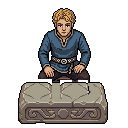
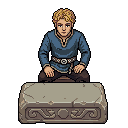
Alba Neagra: paharele decupate fix pe conturul lor negru
Razvan: "paharele sunt decupate prost, vreau sa fie decupate fix cu stroke-ul
negru pe care il au deja. Copiaza paharul din stanga si da copy-paste in
celelalte locuri."

DECUPAJUL (tool_alba_assets.gd)
Vechea idee — "ce e aproape alb e pahar", plus umplere de gauri — era gresita
din start. Paharul e desenat cu un contur INCHIS, deci silueta se ia geometric:
pornim dintr-un pixel aproape alb, umplem tot ce NU e contur (ne oprim singuri
in linia neagra, oricat de inchise ar fi umbrele dinauntru), apoi adaugam
conturul: pixelii inchisi lipiti de interior.

- Pragul de contur trebuie sa fie 0.35, nu 0.20: conturul nu e negru uniform,
  pe stanga paharului e un gri de ~0.25, si cu 0.20 umplerea se scurgea pe toata
  masa. Tablia e >= 0.5, deci 0.35 desparte curat.
- Conturul se ia cu UN pixel in jur, nu urmarind linia: sus e lipit de muchia
  neagra a mesei, care traverseaza toata poza. Crestaturile de un pixel (unde
  conturul e desenat pe doi pixeli) se astupa cu o regula geometrica: pixel
  inchis inconjurat pe 3 din 4 laturi de masca e tot contur. Cu 2 laturi ar
  prinde din nou masa.
- La stersul paharelor de pe masa, toate trei se marcheaza intai ca "sursa
  interzisa": altfel unul se peticeste cu pixeli din vecinul lui si raman
  cioburi negre pe piatra. Si se peticeste pe latimea mastii pe randul ala, nu
  pe toata caseta — sus paharul e ingust si are mainile omului langa el.

MENIUL (alba_menu.gd)
- Constante noi din unealta: SLOT_X [45, 64, 83], CUP_W 14, TALPA 96.
[…]

diff --git a/README.md b/README.md
@@ -90,7 +90,7 @@ All scenes (`.tscn`) and scripts (`.gd`) live in the project root.
   - **The floors on the stats are load-bearing, not cosmetic.** Halving without them leaves you at **0 projectiles** (you stop shooting) or **0 max HP** (you die on the spot) — that ends the run in one spin, which is not "you lose half a stat". Minimums: projectiles 1, max HP 10 (and `hp` moves by the same delta but never below 1), damage 1, damage taken 1 (or contact damage becomes harmless), speed 60. Attack Speed goes through **`upgrade_fire_rate()`** — writing `fire_interval` directly leaves the fire `Timer` on its old value and nothing changes. **Stats sitting at 0 are not listed at all**: doubling 0 is still 0, so betting one would be free.
   - **Three wins in a row and you are banned for the run** *(2026-08-11)* — `CASTIGURI_BAN = 3` in `casino.gd`. The third win is paid out first, the result stays up for `BAN_INTARZIERE` (1.7 s), then a fourth page takes over: *"You've been banned for cheating"*. `_arata_pagina()` rewrites every requested page to `"ban"` from then on (one choke point, so `open()`, ESC and "Back" cannot go round it), `e_banat()` tells the cabinet, and `egt.gd` keeps `poate_invoca()` at `true` so the machine still shows *why* it is dead instead of silently becoming scenery. The streak lives on the single `Casino` node, i.e. it is **per run** — leaving the menu or walking to another cabinet does not reset it; a loss does.
 - **`albas.gd` + `alba.tscn` / `alba.gd` / `alba_menu.gd`** *(2026-08-11)* — **ALBA NEAGRA**, the shell-game man (`harta/Alba Neagra/Alba Neagra.png`), spawned like the EGT cabinets (own `SEED_SALT`, `alba_chance = 2%`, kept `min_dist_egt = 260` from a cabinet so the two gambling spots do not sit on top of each other) and following the same **74px rule** for Y-sorting. He **breathes**: the sprite is stretched 1.8% vertically every 2.3 s with the base pinned by pulling `offset.y` down `foot × (k−1)/k` in parallel — a `Sprite2D` scales from its centre, so without that the table would sink into the grass on every inhale. Press E for the game: the ball goes under a cup, the cups shuffle (more swaps and faster each round — round 1 is 4 × 0.42 s, round 6 is 14 × 0.17 s), you pick a **position**, not a cup, because the click zones are fixed over the three spots on the table. **The prize climbs with the streak** (2 = Common → 6 = Legendary, which ends the game), a wrong guess pays nothing and costs **+10% difficulty**, and **each man plays once** — consumed at the *first round*, not when the menu opens, and remembered per position by the generator like the chests. ⚠ The shuffle is **built in one go but played over time**, so the tween cannot read `_slot` for the fifth swap's positions: a simulated copy walks forward as the chain is built, and `_schimba` replays the same moves on the real one.
-  - **The menu was rebuilt from scratch on 2026-08-12** (Răzvan: *"make it look like a big studio made it — premium, wow"*). It now shows **the man's own 128×128 world sprite, zoomed ×4**, instead of a separate table picture: `tool_alba_assets.gd` cuts `scene.png` (man + table, cups erased and patched from the pixels beside them) and `cup.png` (one cup, 13×16) straight out of `Alba Neagra.png`, and prints the geometry constants for `alba_menu.gd`. The layout is three columns on a fixed **1152×648 plan** (`PLAN` + `_pune`, so it is identical at every resolution): round / hint / risk / prize on the left, the framed **stage** in the middle (warm spotlight, per-cup shadows that shrink as a cup lifts, click zones over the three spots), the **prize ladder** and the buttons on the right — each frame a different cell of `Border EGT.png`. ⚠ Two traps that cost real time: the sheet's cells are **not hollow**, so any frame drawn *over* content needs `draw_center = false` (the first build rendered an empty stage); and an **autowrap label must never be sized through `size`** — it keeps the minimum height it computed while its width was still 0 (439 px for a two-line string) and its text lands in the middle of the panel, so those labels live inside an anchored `Control` (`_eticheta_rupta`).
+  - **The menu was rebuilt from scratch on 2026-08-12** (Răzvan: *"make it look like a big studio made it — premium, wow"*). It now shows **the man's own 128×128 world sprite, zoomed ×4**, instead of a separate table picture: `tool_alba_assets.gd` cuts `scene.png` (man + table, cups erased and patched from the pixels beside them) and `cup.png` (one cup, 14×16) straight out of `Alba Neagra.png`, and prints the geometry constants for `alba_menu.gd`. **The same cup is drawn on all three spots** — Răzvan asked for the left one copy-pasted. ⚠ The cup is cut **geometrically, not by colour**: its shading is exactly as bright as the table top, so the tool floods everything that is *not* outline, starting from an almost-white pixel, then adds the dark pixels touching that fill — the cup's own black stroke, one pixel out, never following the line (up top the stroke merges with the table's edge, which crosses the whole picture). The outline threshold must be **0.35, not 0.20**: it is not uniformly black — on the left of the cup it is a ~0.25 grey, and a tighter threshold lets the fill leak across the entire table. When erasing the cups, all three must be marked as forbidden patch sources first, or one cup gets repaired with pixels from its neighbour and black shards stay on the stone. The layout is three columns on a fixed **1152×648 plan** (`PLAN` + `_pune`, so it is identical at every resolution): round / hint / risk / prize on the left, the framed **stage** in the middle (warm spotlight, per-cup shadows that shrink as a cup lifts, click zones over the three spots), the **prize ladder** and the buttons on the right — each frame a different cell of `Border EGT.png`. ⚠ Two traps that cost real time: the sheet's cells are **not hollow**, so any frame drawn *over* content needs `draw_center = false` (the first build rendered an empty stage); and an **autowrap label must never be sized through `size`** — it keeps the minimum height it computed while its width was still 0 (439 px for a two-line string) and its text lands in the middle of the panel, so those labels live inside an anchored `Control` (`_eticheta_rupta`).
 - **`garda.tscn`** (`CharacterBody2D` + `garda.gd`) — the **"Garda" boss**, spawned *only* by the statue's Summon. Slower and much tankier than a normal enemy, walks toward the player using **8-directional** animations, and **throws lightning balls** from range on a cooldown. Static `garda_0.png` shows while it's rising; the walk animation kicks in once it moves. **(2026-07-19) Special attack:** every **10s** it fires the normal attack **3 times in a fast burst** (`special_interval` / `special_shots` / `special_gap`, ~0.12s apart). The burst is driven by a counter in `_physics_process`, **not `await`** — a coroutine would resume on a freed node if the boss dies mid-burst. It re-reads the player each shot, so the burst tracks you. **(2026-07-22)** What it throws is no longer a lightning ball but a **spinning police baton** — same script and scene, new frames (see below).
 - **`lightning.tscn`** (`Area2D` + `lightning.gd`) — the boss's ranged projectile (still called *lightning* in code): since 2026-07-22 a **spinning police baton** with a **circle hitbox**, flies toward the player, and only damages group `"player"` (`take_damage`). **16 frames × 22.5° = one full turn**, played at 24 fps (a turn every 0.67s), each frame carrying a **2px violet outline**. The sprite is scaled to **0.6** so the baton reads about the size of the old ball and roughly matches the 30px hitbox radius.
 - **Boss art** lives in `boss/` (walk GIFs split into `walk_<dir>_<i>.png` frames + the lightning-burst frames); the alert symbol in `Upgrades/symbol_alert_002_large_red/`. New GIFs are split to PNG with PowerShell + `System.Drawing`; **open the project in Godot once to import new PNGs** before they render (art is loaded at runtime with `load()`).

diff --git a/CLAUDE.md b/CLAUDE.md
@@ -18,15 +18,38 @@ Quick rules:
 
 ---
 
+## Session log — 2026-08-12 (Alba-Neagra: paharele, decupate ca lumea)
+
+**Reclamat de Răzvan:** „paharele sunt decupate prost. Vreau să fie decupate fix cu stroke-ul negru pe care îl au deja. Copiază paharul din stânga și dă copy-paste în celelalte locuri."
+
+Prima variantă de decupaj (log-ul de mai jos) pornea de la „ce e aproape alb e pahar" și cârpea restul cu umplere de găuri. **Ideea era greșită din start.** Paharul e desenat cu un **contur închis**, deci silueta lui nu se definește după culoare, ci geometric:
+
+1. pornim dintr-un pixel aproape alb (numai paharele au așa ceva pe tăblie);
+2. umplem în lături tot ce **nu e contur** — ne oprim singuri în linia neagră, indiferent cât de închise sunt umbrele dinăuntru;
+3. adăugăm conturul: pixelii închiși **lipiți** de interior.
+
+⚠ **Pragul de contur trebuie să fie 0.35, nu 0.20.** Conturul paharului NU e negru uniform: pe stânga (rândul 90 din poză) e un gri de ~0,25. Cu 0,20 umplerea se scurgea prin el pe toată masa — de aici veneau decupajele stricate. Tăblia e ≥ 0,5, deci 0,35 desparte curat.
+
+⚠ **Conturul se ia cu UN SINGUR pixel în jur, nu urmărind linia neagră.** Sus, conturul paharului e lipit de muchia neagră a mesei, care traversează toată poza; dacă urmărești linia, decupezi jumătate de masă odată cu paharul. Crestăturile de un pixel (unde conturul e desenat pe doi pixeli, unul negru și unul gri) se astupă separat, cu o regulă geometrică: un pixel închis înconjurat pe **3 din 4** laturi de mască e tot contur. Cu 2 laturi ar prinde din nou muchia mesei.
+
+⚠ **La ștersul paharelor de pe masă, sursele de petic trebuie să excludă TOATE paharele deodată.** Peticul copie material din pixelii de pe același rând, în oglindă; dacă nu marchezi întâi cele trei pahare (plus un pixel de franj în jur) ca „sursă interzisă", paharul din stânga se peticește cu pixeli din paharul din mijloc și pe masă rămân cioburi negre. Și se peticește **pe lățimea măștii pe rândul ăla**, nu pe toată caseta — sus paharul e îngust și are mâinile omului lângă el.
+
+**Rezultat:** `cup.png` e acum 14×16, o siluetă închisă cu contur negru pe tot conturul, iar meniul desenează **același pahar** pe toate cele trei locuri (cum a cerut). Constante noi în `alba_menu.gd`: `SLOT_X [45, 64, 83]`, `CUP_W 14`, `TALPA 96`.
+
+**Și un reglaj găsit uitându-mă la rezultat:** ridicarea paharului 16 → **10**. Bila are 9 px, deci 10 o descoperă toată, iar talpa paharului rămâne pe tăblie. La 16 paharul urca cu totul în mâinile omului și părea că-l ține în palme, nu că-l ridică de pe masă.
+
+**Verificat:** poza de control (original | scenă peticită cu paharul pus de 3 ori | masa goală, toate mărite ×6) + trei capturi din meniul real (așezate / ridicate / bila la vedere), `tool_check_i18n` ✔.
+
+---
+
 ## Session log — 2026-08-12 (meniul Alba-Neagra, refăcut de la zero)
 
 **Cerut de Răzvan:** „ți-am șters aproape tot de la Alba Neagra în afară de obiectul principal. Când începi jocu vreau să fie o variantă zoomed in de la poza Alba Neagra. Taie tu cups și fă animația. Fă meniul să pară că e făcut de un studio mare care face jocuri constant și arată foarte profesionist. Vreau să fie wow. Să fie premium meniul. Folosește elemente de la Border EGT."
 
 **1. Arta.** Din folder rămăsese doar `Alba Neagra.png` (128×128, omul din lume). Meniul arată acum ACEEAȘI poză, mărită de 4 ori. `tool_alba_assets.gd` a fost rescris: nu mai taie din poza mare a mesei (ștearsă), ci din poza omului, și scoate `scene.png` (omul cu masa, fără pahare) + `cup.png` (un pahar, 13×16). Tipărește la final cifrele pentru `alba_menu.gd` (`SLOT_X`, `CUP_W/H`, talpa), ca să nu le mai măsoare nimeni de mână.
 
-⚠ **Două capcane la decupat, amândouă m-au prins:**
-- Paharul are pe el umbre de **exact aceeași culoare ca tăblia** (155), deci un prag de „aproape alb" le lasă afară și paharul iese ciuruit. Se rezolvă geometric: ce e **înconjurat** de pixeli de pahar e pahar, indiferent de culoare (`_gauri`).
-- Conturul negru nu e „deschis la culoare", deci nu intră în insulă; se adaugă separat, doar pixelii închiși **lipiți** de ea. Fără asta paharul arată ca o pată de lapte.
+⚠ **Decupajul descris aici (prag de „aproape alb" + umplere de găuri) a fost ÎNLOCUIT** — vezi log-ul de mai sus, „paharele, decupate ca lumea". Ce rămâne valabil de aici:
+- Paharul are pe el umbre de **exact aceeași culoare ca tăblia** (155), deci orice prag pe culoare îl taie ciuruit. De asta silueta se ia geometric, nu după cât e de deschis.
 - Verificarea care chiar prinde greșelile: **pui paharul decupat înapoi pe scena peticită, în cele trei locuri, și compari cu originalul.** Un pahar izolat pe fundal gri arată oricum ciudat și nu-ți spune nimic.
 
 **2. Meniul.** Rescris complet, în trei coloane pe un plan fix de 1152×648 (`PLAN` + `_pune`, deci layout-ul arată la fel la orice rezoluție):
@@ -39,7 +62,7 @@ Quick rules:
 
 ⚠ **O etichetă cu autowrap NU se așază cu `size`.** Își calculează înălțimea minimă din lățimea pe care o are în acel moment, iar înainte de prima așezare lățimea e 0 → „un cuvânt pe rând" → minim 439 px, care rămâne agățat de ea pentru totdeauna. Textul ajungea tocmai în mijlocul panoului. Soluția: eticheta stă într-un `Control` gol, ancorată pe tot cuprinsul lui (`_eticheta_rupta`).
 
-**3. Reglaje găsite rulând, nu ghicite:** ridicarea paharului 26 → **16** px de artă (la 26 paharul ajungea în mâinile omului), arcul 20 → **11**, umbrele de sub pahare de la alpha 0,85 la **0,42** (erau trei pete cenușii pe masă).
+**3. Reglaje găsite rulând, nu ghicite:** ridicarea paharului 26 → 16 px de artă (ajunsă apoi la **10**, vezi log-ul de mai sus), arcul 20 → **11**, umbrele de sub pahare de la alpha 0,85 la **0,42** (erau trei pete cenușii pe masă).
 
 **Verificat:** patru capturi din joc (intro / bila la vedere / amestec / câștig), `tool_check_i18n` ✔ (265 chei × 8 limbi; chei noi: „READY", „PRIZE LADDER"; titlul scris cu spații între litere e trecut în `IGNORATE`) și o pornire de `main.tscn` fără erori de script.
 
